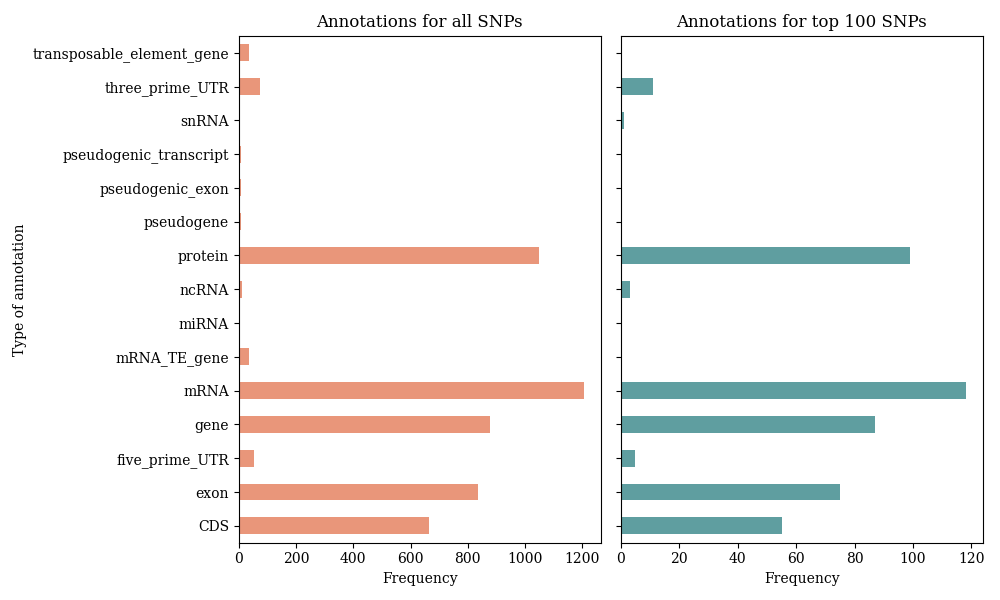
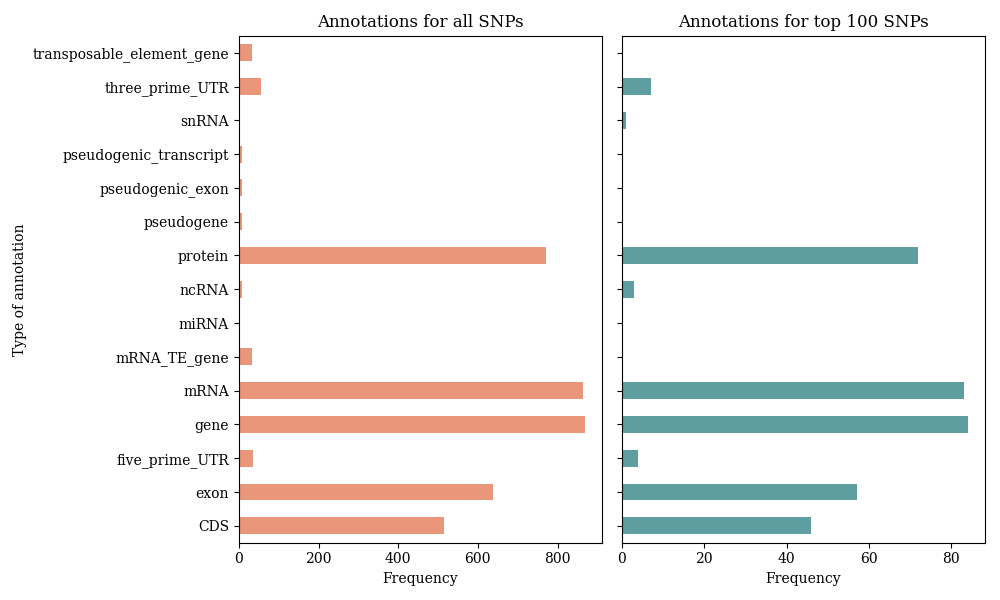
update anno.py

diff --git a/anno.py b/anno.py
@@ -15,7 +15,12 @@ def find_types(chromosome, position):
     chr = f'Chr{int(chromosome)}'
     chr_feat = gff[gff['Chromosome'] == chr]
     feat = chr_feat[(chr_feat['Start'] <= position) & (chr_feat['End'] >= position)]
-    return ";".join(feat['Type']) if not feat.empty else float('NaN')
+
+    # Use a set to collect unique feature types
+    unique_feat_types = set(feat['Type'])
+
+    # Return a semicolon-joined string of unique feature types or NaN if empty
+    return ";".join(unique_feat_types) if unique_feat_types else float('NaN')
 
 
 # Annotate all snps
